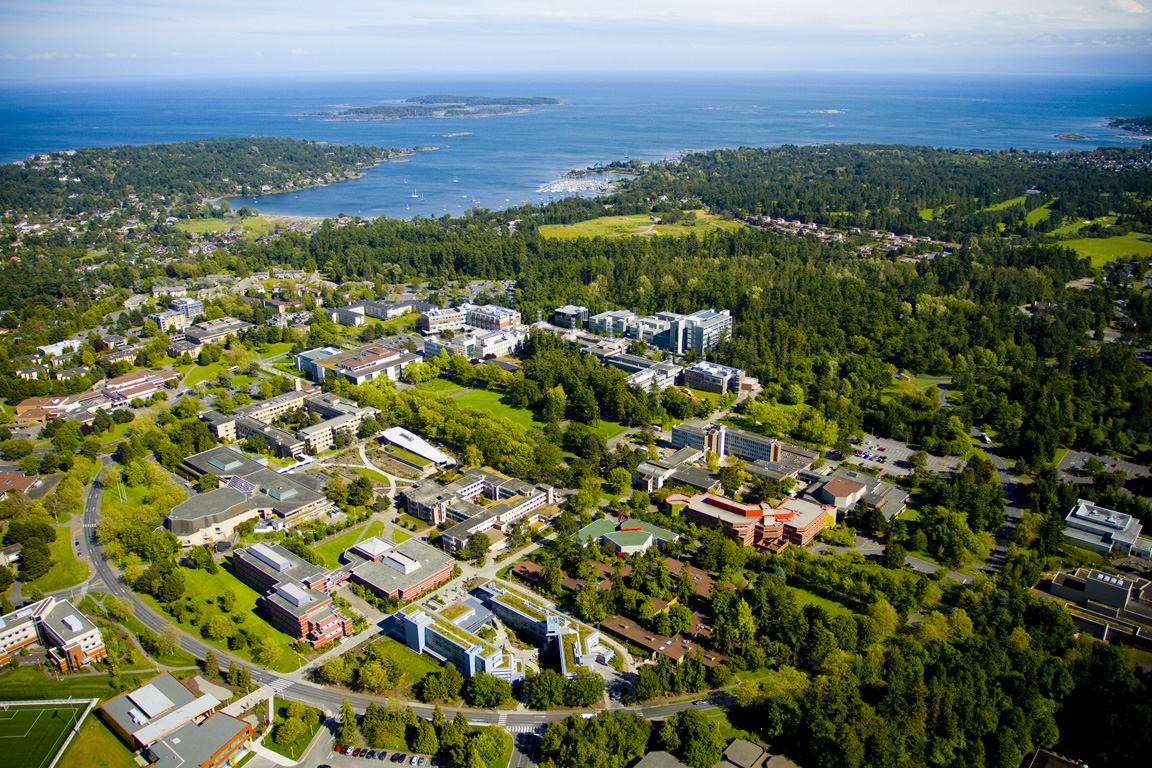
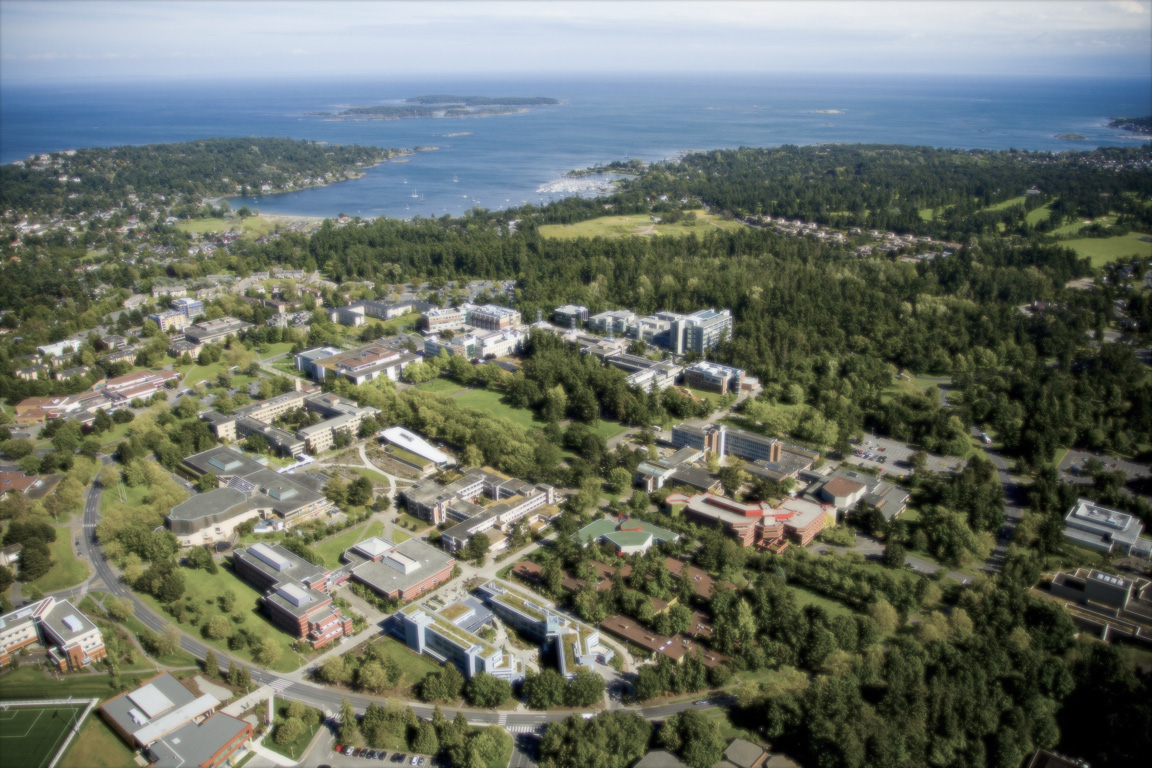
Change background pic and map placeholder

diff --git a/Lockers/public/yesLockers.html b/Lockers/public/yesLockers.html
@@ -14,4 +14,4 @@
               <br>
         <input type="submit" value="Register">
 </form>
-<div class="locker"><img src="../back.jpg" class="map"/>
+<div class="locker"><img src="../lockers.jpg" class="map"/>
